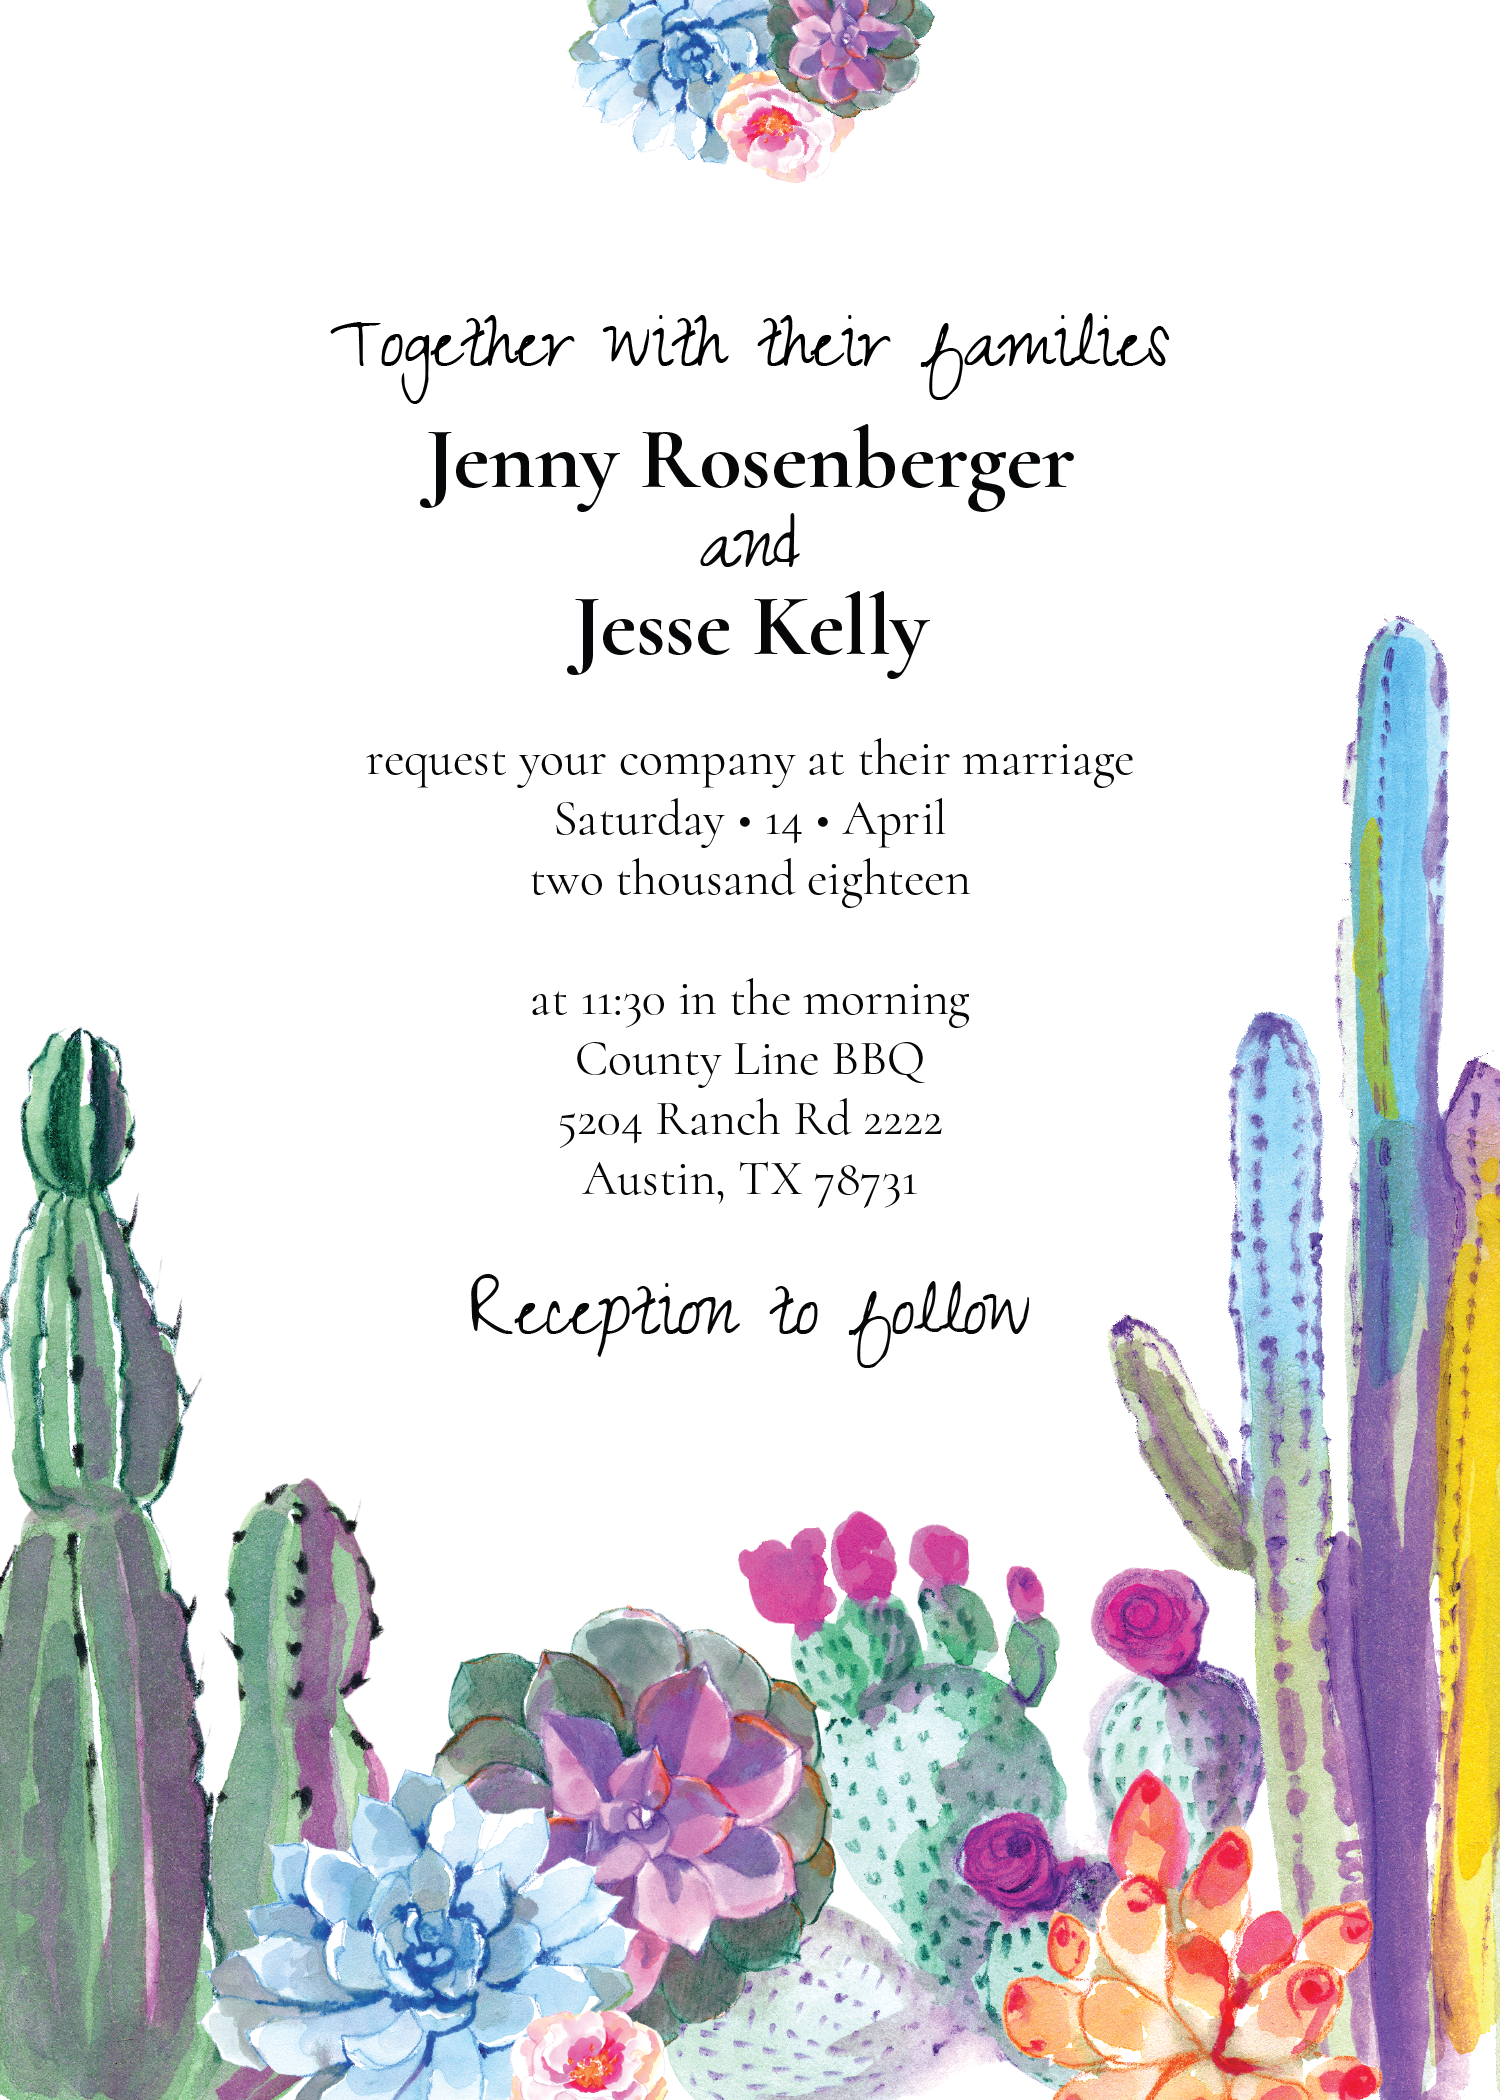
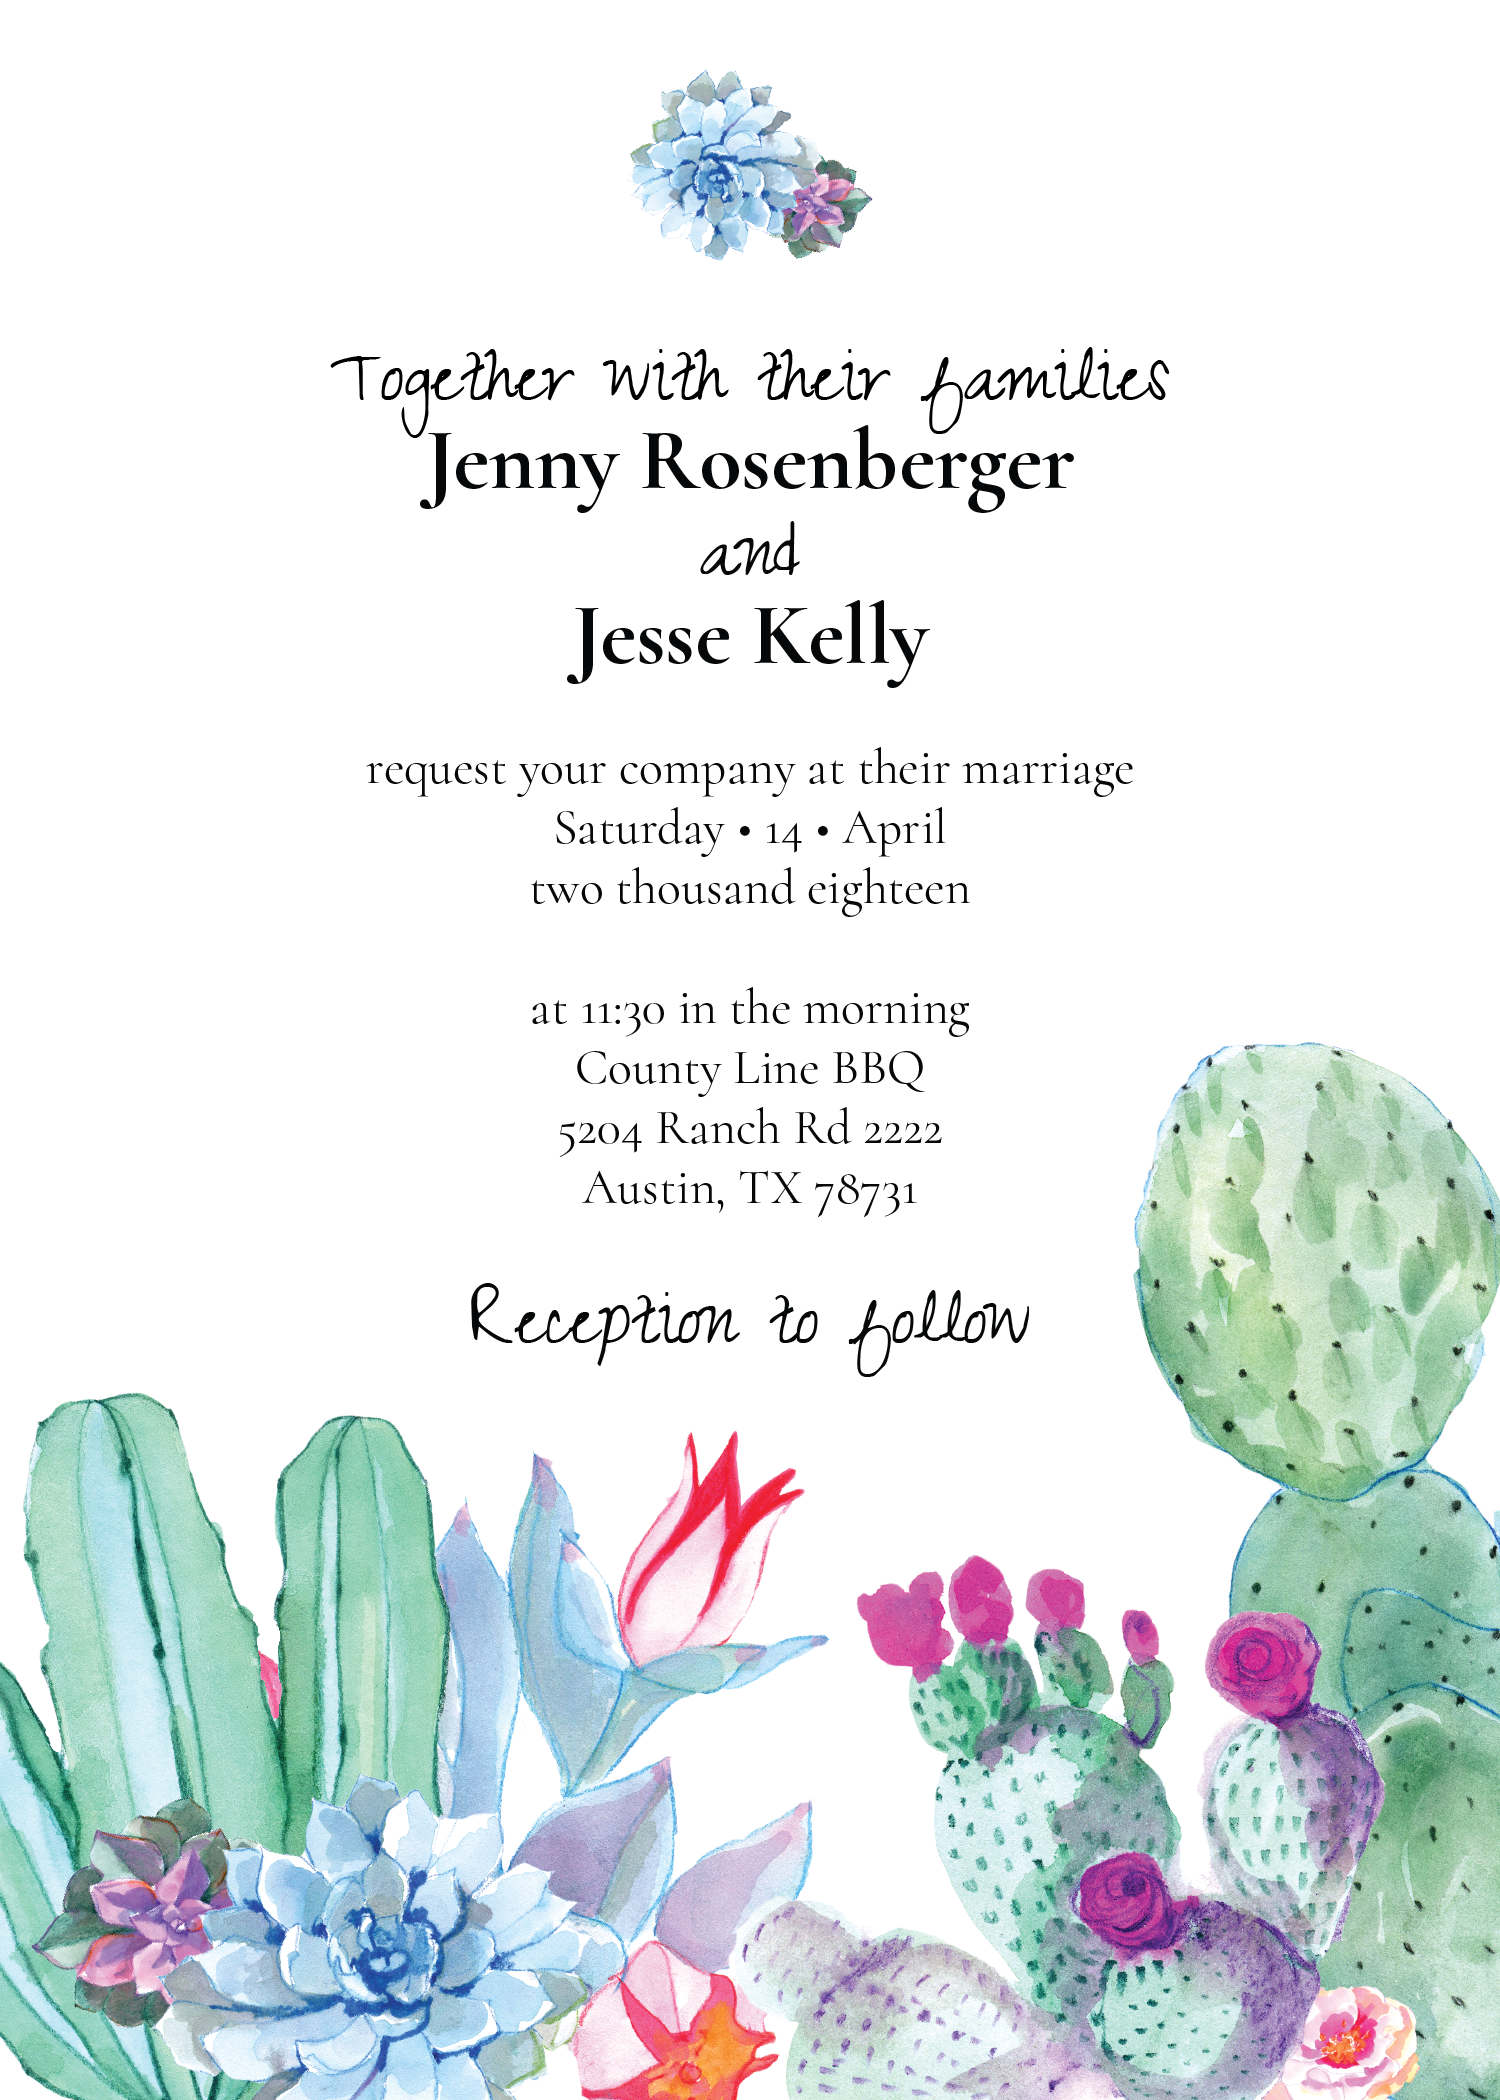
revised template styles, homepage, and images

diff --git a/aws/resources/public/index.html b/aws/resources/public/index.html
@@ -17,8 +17,8 @@
   <link href="css/template-style.css" type="text/css" rel="stylesheet" media="screen,projection"/>
 </head>
 <body>
-  <nav class="taupe" role="navigation">
-    <div class="nav-wrapper  taupe container">
+  <nav class="light-tan" role="navigation">
+    <div class="nav-wrapper  light-tan container">
       <a id="logo-container" href="#" class="brand-logo"><img src="images/Flying-J-Stand-Alone_Logo.png" alt="Flying J Wedding"></a>
       <ul class="right hide-on-med-and-down">
         <li><a href="index.html#home">Home</a></li>
@@ -26,7 +26,7 @@
         <li><a href="index.html#gifts">Gifts</a></li>
       </ul>
 
-      <ul id="nav-mobile" class="taupe side-nav">
+      <ul id="nav-mobile" class="light-tan side-nav">
         <li><a href="index.html#home">Home</a></li>
         <li><a href="index.html#travel">Travel</a></li>
         <li><a href="index.html#gifts">Gifts</a></li>
@@ -51,24 +51,18 @@
       <div class="parallax"><img src="images/hero-hats.jpg" alt="Jesse and Jenny"></div>
     </div>
 
-    <div class="light-tan"> <!-- Begin name section -->
+    <div class="cacti-background"> 
       <div class="section container">
         <div class="row center-align">
-          <div class="col s12 m5">
-            <h3>Jenny Rosenberger</h3>
-          </div>
-          <div class="col s12 m2">
-            <h4>AND</h4>
-          </div>
-          <div class="col s12 m5">
-            <h3>Jesse Kelly</h3>
+          <div class="col s12 m8 push-m2">
+            <h3>Jenny<span class="hide-on-small-only"> Rosenberger</span></h3>
+            <h5>AND</h5>
+            <h3>Jesse<span class="hide-on-small-only"> Kelly</span></h3>
           </div>
         </div>
       </div>
     </div>
-  </div>
-</div> <!-- End Name section -->
-
+  <!-- End Name section -->
 
 <div class="taupe">
   <div class="section container">
@@ -92,16 +86,27 @@
           <div class="icon-block">
             <h4 class="center">Reception</h4>
             <p class="center">Following the ceremony, guest are invited to join us for appetizers, beverages, and yard games.</p>
-            <p class="center"><a class="btn-flat" href="https://giphy.com/gifs/26BoDOvKcWdmfjIXK/html5" target="_blank">Get down</a></p>
+            <p class="center"><a class="btn-flat modal-trigger" href="#modal1">Get down</a></p>
           </div>
         </div>
+
+        <div id="modal1" class="modal">
+    <div class="modal-content">
+      <div class="video-container">
+      <iframe src="https://giphy.com/embed/26BoDOvKcWdmfjIXK" width="480" height="270" frameBorder="0" class="giphy-embed" allowFullScreen></iframe>
+    </div>
+    </div>
+    <div class="modal-footer">
+      <a href="#" class="modal-action modal-close btn">Close<i class="material-icons right">close</i></a>
+    </div>
+  </div>
 
         <div class="col s12 m8 push-m2 l4">
           <div class="icon-block">
             <h4 class="center">Photos</h4>
 
             <p class="center">Help us remember the big day by adding to our google photo library.</p>
-            <p class="center"><a class="btn-flat" href="#" target="_blank">coming soon</a></p>
+            <p class="center"><a class="btn-flat" href="https://photos.app.goo.gl/9Xxci8l568oJ5Ol42" target="_blank">Upload photos</a></p>
           </div>
         </div>
       </div>
@@ -123,8 +128,8 @@
       <div class="row">
         <div class="col s12 l8 left-align">
           <h4>Accommodations</h4>
-          <p>We have arranged a small block of rooms at Habitat Suites through March 30. Our family has stayed here many times; we absolutely love this place. Please mention "Jenny and Jesse's Wedding" when booking.<p> 
-            <p>Guests are also welcome to book via Airbnb, HomeAway, or any other vacation website of choice. Austin has many charming neighborhoods, but if you would like to stay near our home, search near the "Windsor Park" or "Mueller" neighborhoods (area code 78723). Please reach out to us if you have any questions about where to stay.</p>
+          <p class="flow-text">We have arranged a small block of rooms at Habitat Suites through March 30. Our family has stayed here many times; we absolutely love this place. Please mention "Jenny and Jesse's Wedding" when booking.<p> 
+            <p class="flow-text">Guests are also welcome to book via Airbnb, HomeAway, or any other vacation website of choice. Austin has many charming neighborhoods, but if you would like to stay near our home, search near the "Windsor Park" or "Mueller" neighborhoods (area code 78723). Please reach out to us if you have any questions about where to stay.</p>
           </div>
           <div class="col s12 l4">
             <br>
@@ -146,7 +151,7 @@
         <div class="row">
           <div class="col s12 l8 left-align">
             <h4>Travel</h4>
-            <p>If you need a ride from the airport or to the wedding, we might be able to match you with a ride from one of our friends! Other local rideshare options like Ride&nbsp;Austin, Fasten and car2go usually offer discounts for your first ride. Of course, the ubiquitous Uber and Lyft serve the Austin area as well.</p>
+            <p class="flow-text">If you need a ride from the airport or to the wedding, we might be able to match you with a ride from one of our friends! Other local rideshare options like Ride&nbsp;Austin, Fasten and car2go usually offer discounts for your first ride. Of course, the ubiquitous Uber and Lyft serve the Austin area as well.</p>
           </div>
           <div class="col s12 l4">
             <br>
@@ -172,7 +177,7 @@
         <div class="row">
           <div class="col s12 m8 push-m2 center">
             <h4>Gifts</h4>
-            <p>The very best present we can receive is your presence at our wedding. We recognize that especially for those of you coming from far away, simply attending our wedding will already entail spending money on travel and hotel accommodations. Besides, the Flying Js like to keep it simple, we really don't need many things. Greeting cards are welcomed and appreciated.</p>
+            <p class="flow-text">The very best present we can receive is your presence at our wedding. We recognize that especially for those of you coming from far away, simply attending our wedding will already entail spending money on travel and hotel accommodations. Besides, the Flying Js like to keep it simple, we really don't need many things. Greeting cards are welcomed and appreciated.</p>
           </div>
         </div>
       </div>
@@ -202,6 +207,12 @@
   }); // end of document ready
 })(jQuery); // end of jQuery name space
 </script>
+<script type="text/javascript">
+
+  $(document).ready(function(){
+    $('.modal').modal();
+  });
+</script>>       
 
 </body>
 </html>

diff --git a/aws/resources/public/css/template-style.css b/aws/resources/public/css/template-style.css
@@ -8,12 +8,12 @@
 
 nav ul a,
 nav .brand-logo, .side-nav li > a {
-  color: #FFFFFF;
+  color: #454545;
   font-size: 1.25rem;
 }
 body {
     font-family: 'Cormorant', serif;
-    font-size: medium;
+    font-size: large;
     display: flex;
     min-height: 100vh;
     flex-direction: column;
@@ -38,28 +38,28 @@ section a {
   color:inherit; 
 }
 .taupe .btn-flat:hover {
-  background-color: #f5f5f5;
-  color: #B69996;
+  background-color: #454545;
+  color: #f7f4ea;
 }
 .light-tan .btn-flat:hover {
-  background-color: #B69996;
-  color: #f5f5f5;
-  border-color: #B69996;
+  background-color: #454545;
+  color: #fff;
+  border-color: #fff;
 }
 
 p {
   line-height: 2rem;
 }
 .taupe {
-  background-color: #B69996;
-  color: #f5f5f5;
+  background-color: #f7f4ea;
+  color: #454545;
 } 
 .light-tan {
-  background-color: #f5f5f5;
+  background-color: #fff;
   color: #454545;
 }
 .button-collapse {
-  color: #f5f5f5;
+  color: #454545;
 }
 
 .parallax-container {
@@ -72,6 +72,14 @@ p {
 }
   .parallax-container .section {
     width: 100%;
+  }
+  .cacti-background {
+    background: url('../images/backdrop-2.png') no-repeat 50% 50% fixed;
+    background-size: contain;
+  -moz-background-size: contain;
+  -o-background-size: contain;
+  -webkit-background-size: contain;
+  color: #454545;
   }
 
 
@@ -106,7 +114,7 @@ footer.page-footer {
   margin: 0;
 }
 .page-footer .footer-copyright {
-  background-color: #B69996;
+  background-color: #b784a7;
 }
 
 /* RSVP Form Styles **************/
